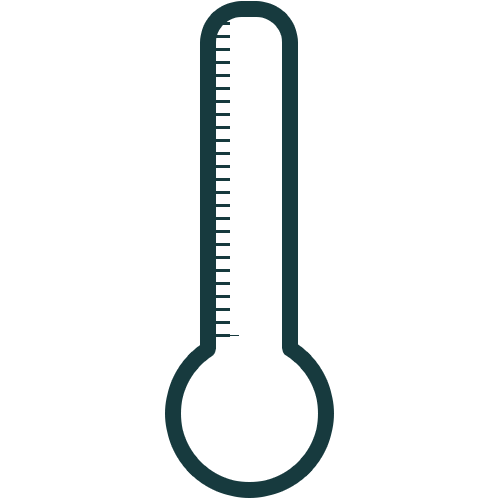
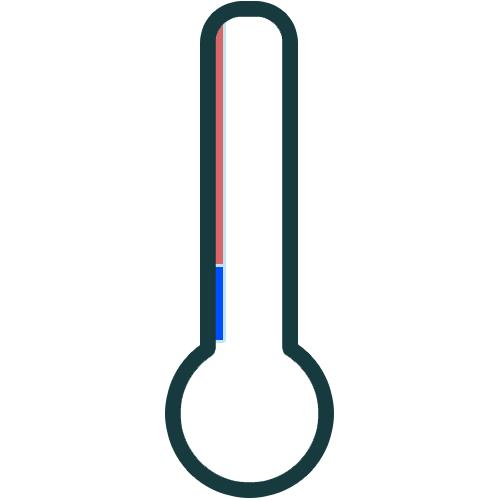
Sync

diff --git a/HTML/js/load-data.js b/HTML/js/load-data.js
@@ -13,12 +13,8 @@ $(document).ready(function () {
 
             $.each(data, function (key, item) {
                 // Add a list item for the product.
-                $('<li>', { text: "Vindhastighet: " + item.windSpeed + "m/s" }).appendTo($('#vind'));
-                $('<li>', { text: "Vindriktning: " + item.windDirection + "°" }).appendTo($('#vind'));
-                $('<li>', { text: "Vindbyar: " + item.gustSpeed + "m/s" }).appendTo($('#vind'));
-                $('<li>', { text: "Luft temperatur: "+ item.airTemp + "° C" }).appendTo($('#temp'));
-                $('<li>', { text: "Vatten temperatur: " + item.waterTemp + "° C" }).appendTo($('#temp'));
                 $('#batteri ').text("Batteri: " + item.battery + "%")
+                $('#vindbyar ').text("*Med vinbyar upp till " + item.gustSpeed + "m/s")
 
                 $('#updated ').text(item.lastUpdate)
 //
@@ -94,26 +90,86 @@ $(document).ready(function () {
 
 
 
-                //parseInt(item.airTemp)
-                var Luft = 0;
+                //LuftTempratur
+                var Luft = parseInt(item.airTemp);
                 var tempHeight = Luft + 10;
-                var canvasTemp = new createjs.Stage("Temp");
+                var canvasAirTemp = new createjs.Stage("airTemp");
+
+                var rect = new createjs.Shape();
+                rect.graphics.beginFill("#c0dcdf").drawRect(32, 169 - ((46 * 3.5) + 1), 34, (46 * 3.5) + 1);
+                rect.graphics.beginFill("#7dcbdc").drawRect(32, 169 - ((Math.min(tempHeight, 46) * 3.5) + 1), 34, (Math.min(tempHeight, 46) * 3.5) + 1);
+                rect.graphics.beginFill("#7dcbdc").drawCircle(50, 206, 40);
+                canvasAirTemp.addChild(rect);
+
+                var circles = new createjs.Bitmap("./img/cloud.png");
+                circles.scaleX = .6;
+                circles.scaleY = .7;
+                circles.x = 20;
+                circles.y = 170;
+                canvasAirTemp.addChild(circles);
+
+                var value = new createjs.Text(Luft + '\xB0', "23px 'Lato'", "#000000");
+                var b = value.getBounds();
+                value.x = 50 - b.width / 2;
+                value.y = 230 - b.height / 2;
+                value.textBaseline = "alphabetic";
+                canvasAirTemp.addChild(value);
 
                 var circles = new createjs.Bitmap("./img/Temp.png");
                 circles.x = -75;
                 circles.scaleX = .5;
                 circles.scaleY = .5;
-                canvasTemp.addChild(circles);
+                canvasAirTemp.addChild(circles);
 
-
-                var rect = new createjs.Shape();
-                rect.graphics.beginFill("tomato").drawRect(45, 169 - ((tempHeight * 3.5) + 1), 20, (tempHeight * 3.5) + 1);
-
-                canvasTemp.addChild(rect);
-
+                var circles = new createjs.Bitmap("./img/Temp-Streck.png");
+                circles.x = -75;
+                circles.scaleX = .5;
+                circles.scaleY = .5;
+                canvasAirTemp.addChild(circles);
 
                 createjs.Ticker.setFPS(60);
-                createjs.Ticker.addEventListener("tick", canvasTemp);
+                createjs.Ticker.addEventListener("tick", canvasAirTemp);
+
+
+                //VattenTemp
+                var waterTemp = parseInt(item.waterTemp);
+                var tempHeight = waterTemp + 5;
+                var canvasWaterTemp = new createjs.Stage("waterTemp");
+
+                var rect = new createjs.Shape();
+                rect.graphics.beginFill("#c0dcdf").drawRect(32, 169 - ((46 * 3.5) + 1), 34, (46 * 3.5) + 1);
+                rect.graphics.beginFill("#7dcbdc").drawRect(32, 169 - ((Math.min(tempHeight, 35) * 4.5) + 1), 34, (Math.min(tempHeight, 35) * 4.5) + 1);
+                rect.graphics.beginFill("#7dcbdc").drawCircle(50, 206, 40);
+                canvasWaterTemp.addChild(rect);
+
+                var circles = new createjs.Bitmap("./img/drop.png");
+                circles.scaleX = .6;
+                circles.scaleY = .6;
+                circles.x = 20;
+                circles.y = 175;
+                canvasWaterTemp.addChild(circles);
+
+                var value = new createjs.Text(waterTemp + '\xB0', "23px 'Lato'", "#000000");
+                var b = value.getBounds();
+                value.x = 50 - b.width / 2;
+                value.y = 230 - b.height / 2;
+                value.textBaseline = "alphabetic";
+                canvasWaterTemp.addChild(value);
+
+                var circles = new createjs.Bitmap("./img/Temp.png");
+                circles.x = -75;
+                circles.scaleX = .5;
+                circles.scaleY = .5;
+                canvasWaterTemp.addChild(circles);
+
+                var circles = new createjs.Bitmap("./img/Temp-Streck.png");
+                circles.x = -75;
+                circles.scaleX = .5;
+                circles.scaleY = .5;
+                canvasWaterTemp.addChild(circles);
+
+                createjs.Ticker.setFPS(60);
+                createjs.Ticker.addEventListener("tick", canvasWaterTemp);
             })
 
         },

diff --git a/HTML/index.html b/HTML/index.html
@@ -13,56 +13,79 @@
 
 </head>
 <body>
-        <header class="section group">
+    <header class="section group">
 
-            <div class="header col span_2_of_2">
-                <div class="wrapper">
-                    <div class="mobilenav">
-                        <li><a href="#">Never</a></li>
-                        <li><a href="#">Gonna</a></li>
-                        <li><a href="#">Give</a></li>
-                        <li><a href="#">You</a></li>
-                        <li><a href="#">Up</a></li>
-                    </div>
-
-                    <a href="javascript:void(0)" class="icon">
-                        <div class="hamburger">
-                            <div class="menui top-menu"></div>
-                            <div class="menui mid-menu"></div>
-                            <div class="menui bottom-menu"></div>
-                        </div>
-                    </a>
-
-                    <h1>Väderdata från Grythem</h1>
-                    <p id="status">Uppdaterad senast <span id="updated"></span></p>
-
+        <div class="header col span_2_of_2">
+            <div class="wrapper">
+                <div class="mobilenav">
+                    <li><a href="#">Never</a></li>
+                    <li><a href="#">Gonna</a></li>
+                    <li><a href="#">Give</a></li>
+                    <li><a href="#">You</a></li>
+                    <li><a href="#">Up</a></li>
                 </div>
-            </div>
 
-        </header>
+                <a href="javascript:void(0)" class="icon">
+                    <div class="hamburger">
+                        <div class="menui top-menu"></div>
+                        <div class="menui mid-menu"></div>
+                        <div class="menui bottom-menu"></div>
+                    </div>
+                </a>
+
+                <h1>Väderdata från Grythem</h1>
+                <p id="status">Uppdaterad senast <span id="updated"></span></p>
+
+            </div>
+        </div>
+
+    </header>
     <div class="wrapper">
 
 
         <div class="section group">
-            <div class="col span_1_of_2 cont">
-                <canvas id="compass" width="250" height="250"></canvas>
-                <canvas id="Temp" width="100" height="250"></canvas>
+            <div class="col span_2_of_2 cont">
+                <div class="compassContainer">
 
-                <ul id="vind"></ul>
+                    <canvas id="compass" width="250" height="250"></canvas>
+                    <p id="vindbyar">Med vinbyar upp till </p>
+                </div>
+            </div>
+
+        </div>
+        <div class="section group" style=" margin:0 auto;max-width:500px;">
+
+            <div class="col span_1_of_2 cont">
+                <div class="tempContainer">
+
+                    <canvas id="airTemp" width="100" height="250"></canvas>
+                    <h1>Luft</h1>
+                </div>
             </div>
             <div class="col span_1_of_2 cont">
-                <ul id="temp"></ul>
+                <div class="tempContainer">
+                    <canvas id="waterTemp" width="100" height="250"></canvas>
+                    <h1>Vatten</h1>
+                </div>
+            </div>
+
+            <div class="col span_1_of_2 cont">
+
             </div>
         </div>
-        <div class="header  span_2_of_2">
 
-                <h1>Om väderstationen</h1>
-        </div>
-        <p>Hemsidan drivs av en väderstation ute på grytem</p>
 
-      
-        <p id="batteri"></p>
     </div>
+
+    <footer class="header  span_2_of_2">
+
+        <h1>Om väderstationen</h1>
+        <p>Hemsidan drivs av en väderstation ute på grytem stationen drivs av en båtklubb där</p>
+        <p>Hemsidan skapad av Axel och Jesper</p>
+        <p id="batteri"></p>
+
+    </footer>
+
     <script src="./js/load-data.js"></script>
 
 </body>

diff --git a/HTML/style/style.css b/HTML/style/style.css
@@ -1,37 +1,67 @@
 @import url(https://fonts.googleapis.com/css?family=Lato:400,700);
+
 body {
     margin: 0;
     font-family: 'Lato', sans-serif;
-    background-color:#98C8CE;
+    background-color: #98C8CE;
+    font-size:1em;
 }
 /*  SECTIONS  */
-a,p,h1,h2,h3{
-    margin:0;
+a, p, h1, h2, h3 {
+    margin: 0;
 }
-ul{
-   list-style-type:none;
+
+h1 {
+    color: #f9feff;
+    font-size: 1.5em;
 }
+
+p {
+    color: #f9feff;
+    font-size:1.2em;
+}
+
+.compassContainer {
+    margin: 0 auto;
+    max-width: 250px;
+    text-align: center;
+}
+
+.tempContainer {
+    margin: 0 auto;
+    max-width: 100px;
+    text-align: center;
+}
+
+ul {
+    list-style-type: none;
+}
+
 .wrapper {
     max-width: 900px;
     width: 100%;
-    margin:0 auto;
+    margin: 0 auto;
 }
-.header{
-    background-color:#173A3E;
-    color:white;
-    padding:30px 0;
-    text-align:center;
+
+.header {
+    background-color: #173A3E;
+    color: white;
+    padding: 30px 0;
+    text-align: center;
 }
+
 .section {
     clear: both;
     padding: 0px;
     margin: 0px;
 }
-ul{
-    padding:20px;
 
+ul {
+    padding: 20px;
 }
-
+#batteri{
+    float:right;
+}
 #compass {
     padding: 0;
     margin: 10px auto;
@@ -42,21 +72,18 @@ ul{
     padding: 0;
     margin: 10px auto;
     display: block;
-    border: 2px solid tomato;
 }
 
 .cont {
     margin-top: 20px !important;
     margin-bottom: 20px !important;
-
-
 }
 
 /*  COLUMN SETUP  */
 .col {
     display: block;
     float: left;
-    margin: 0% 0 0% 1.6%;
+    margin: 0% 0 0% 0.6%;
 }
 
     .col:first-child {
@@ -94,7 +121,7 @@ ul{
     }
 }
 
-@media only screen and (max-width: 20000px) {
+@media only screen and (max-width: 310px) {
     .span_2_of_2, .span_1_of_2 {
         width: 100%;
     }
